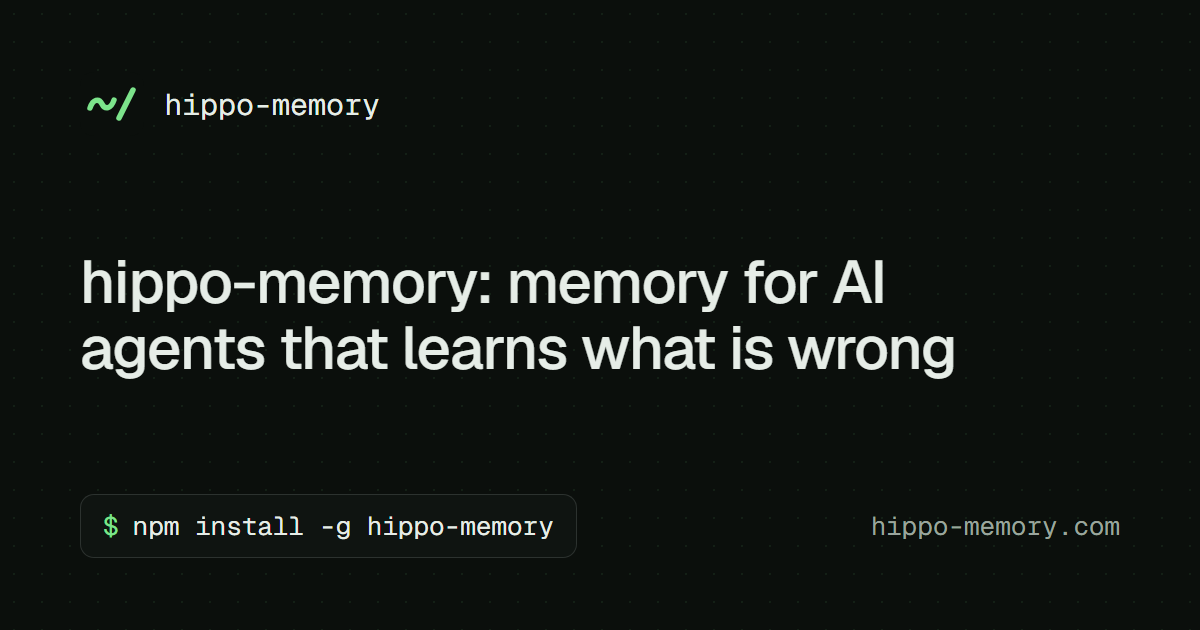
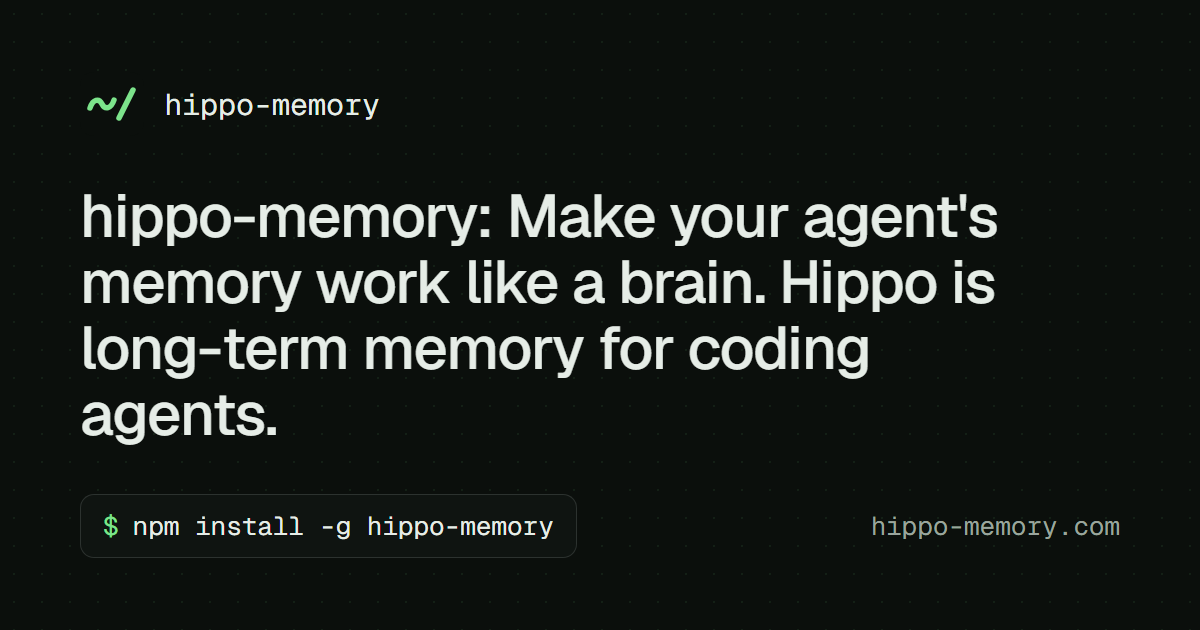
chore: release 1.63.1 with consistent Hippo tagline
Use the requested wording across README, package and plugin descriptions,
website metadata and hero, CLI help, and Python SDK documentation.
Refresh the website social preview and prepare SDK 0.3.1 metadata.

Validation: full package/UI build, website build and source-copy checks,
lint/comment/size gates, CLI help snapshots, and Python tests/build passed.

Changed region(s): [[0.0617, 0.3016, 0.8325, 0.6032], [0.0617, 0.6333, 0.2467, 0.7238]]

diff --git a/website/src/content/site.ts b/website/src/content/site.ts
@@ -19,11 +19,13 @@ export const site = {
   name: 'hippo',
   pkg: 'hippo-memory',
   version: pkg.version, // Build-source version; publication is verified separately.
-  positioning: 'memory for AI agents that learns what is wrong', // page title and hero eyebrow
-  // Hero headline, split for accent emphasis. The per-agent install detail lives in Get started.
-  tagline: { lead: 'Stop re‑teaching', accent: 'your agent.' }, // non-breaking hyphen keeps the word whole
-  description:
-    "Make your agent's memory work like a brain. Hippo is long-term memory for coding agents.",
+  positioning: pkg.description,
+  tagline: {
+    lead: "Make your agent's memory",
+    accent: 'work like a brain.',
+    summary: 'Hippo is long-term memory for coding agents.',
+  },
+  description: pkg.description,
   installCmd: 'npm install -g hippo-memory',
   initCmd: 'hippo init --scan ~',
   // A floor stays true as the suite grows; check-readme-sync.mjs holds README and llms.txt to it.

diff --git a/src/version.ts b/src/version.ts
@@ -16,7 +16,7 @@
  * an ESM `import` can resolve cleanly, and a hardcoded constant survives
  * any packager that drops .json files.
  */
-export const PACKAGE_VERSION = '1.63.0';
+export const PACKAGE_VERSION = '1.63.1';
 
 /** Compares plain x.y.z versions, positive if a > b; tags throw so the rollback guard never misfires silently. */
 export function compareSemver(a: string, b: string): number {

diff --git a/src/cli/usage.ts b/src/cli/usage.ts
@@ -26,7 +26,7 @@ export function printSlackWorkspacesUsage(): void {
 }
 
 export const USAGE_HEADER = `
-Hippo - memory for AI agents that learns what is wrong and ranks it down
+Hippo - Make your agent's memory work like a brain. Hippo is long-term memory for coding agents.
 
 Usage: hippo <command> [options]
 

diff --git a/python/src/hippo_memory/__init__.py b/python/src/hippo_memory/__init__.py
@@ -66,7 +66,7 @@ from hippo_memory.models import (
     HippoError,
 )
 
-__version__ = "0.3.0"
+__version__ = "0.3.1"
 
 __all__ = [
     "Hippo",

diff --git a/CHANGELOG.md b/CHANGELOG.md
@@ -1,5 +1,18 @@
 # Changelog
 
+## 1.63.1 - 2026-10-04
+
+### Changed
+
+- **Use one Hippo tagline across public descriptions.** The README, npm metadata, GitHub About, website, CLI help, plugin listings and Python SDK source now lead with "Make your agent's memory work like a brain. Hippo is long-term memory for coding agents."
+- **Opening a store that is already current runs one read instead of the full schema check.** Every open used to re-assert 26 tables and indexes with `CREATE ... IF NOT EXISTS`, a meta read and two row counts (`memories` and the full-text index). Now one probe checks both schema versions, every table and index the open path repairs, the 7 default meta keys and the full-text flag. When all of them hold, the open skips the DDL and the counts. Anything stale or missing takes the old repair path, which now also brings a lagging `PRAGMA user_version` up to date. On a 20,000-memory store the median open and close fell from 3.6 ms to 1.9 ms.
+- **`hippo sleep` re-syncs the full-text index, and `hippo doctor` reports when it has drifted.** Opening a store no longer checks the index against `memories`, so drift from a failed full-text write now lasts until the next sleep, not the next open. Doctor shows a new `fts` check that warns and names `hippo sleep` as the fix. A failed full-text purge now fails the archive and rolls it back, so archived text is never left searchable.
+- **A write no longer counts every memory to decide whether the store needs its legacy import.** It checks for one row instead.
+
+### Tests
+
+- **`tests/db-open-fast-path.test.ts` pins the fast path on a real store.** It checks that a current store opens with no DDL, that every `CREATE` the repair path runs names an object in the required list (and the reverse), and that stale versions, a rolled-back `schema_version`, a lagging `user_version`, a dropped continuity table or index, and a missing meta key all still take the repair path. It also checks that sleep repairs a desynced full-text index and that doctor warns on one. Five of the nine tests fail against the previous code; the other four guard behaviour that must not change. `tests/raw-archive.test.ts` adds a case where the full-text purge fails: the archive throws, and the memory row stays, with no `raw_archive` or `archive_raw` audit row written.
+
 ## 1.63.0 - 2026-10-04
 
 ### Added

diff --git a/extensions/pi-extension/README.md b/extensions/pi-extension/README.md
@@ -1,6 +1,8 @@
 # Hippo Memory - Pi Extension
 
-Biologically-inspired memory for [Pi coding agent](https://github.com/badlogic/pi-mono). Memories decay by default, retrieval strengthens them, errors stick longer, and sleep consolidation merges related episodes into one memory.
+Make your agent's memory work like a brain. Hippo is long-term memory for coding agents.
+
+This extension supports the [Pi coding agent](https://github.com/badlogic/pi-mono). Memories decay by default, retrieval strengthens them, errors stick longer, and sleep consolidation merges related episodes into one memory.
 
 ## Install
 

diff --git a/README.md b/README.md
@@ -1,6 +1,6 @@
-# 🦛 Hippo: memory for AI agents that learns what is wrong
+# 🦛 Hippo
 
-**Hippo learns what is wrong and ranks it down.** Good memory is knowing what to forget: what turned out wrong, what got replaced, what nobody used.
+**Make your agent's memory work like a brain. Hippo is long-term memory for coding agents.**
 
 [![npm](https://img.shields.io/npm/v/hippo-memory)](https://npmjs.com/package/hippo-memory)
 [![npm downloads](https://img.shields.io/npm/dm/hippo-memory)](https://npmjs.com/package/hippo-memory)

diff --git a/extensions/openclaw-plugin/README.md b/extensions/openclaw-plugin/README.md
@@ -1,6 +1,8 @@
 # Hippo Memory - OpenClaw Plugin
 
-Biologically-inspired memory for OpenClaw agents. Memories decay by default, retrieval strengthens them, errors stick longer, and sleep consolidation merges related episodes into one memory.
+Make your agent's memory work like a brain. Hippo is long-term memory for coding agents.
+
+Memories decay by default, retrieval strengthens them, errors stick longer, and sleep consolidation merges related episodes into one memory.
 
 ## Install
 

diff --git a/extensions/claude-code-plugin/README.md b/extensions/claude-code-plugin/README.md
@@ -1,6 +1,8 @@
 # Hippo Memory - Claude Code Plugin
 
-Biologically-inspired memory for Claude Code. Memories decay by default, retrieval strengthens them, errors stick longer, and sleep consolidation merges related episodes into one memory.
+Make your agent's memory work like a brain. Hippo is long-term memory for coding agents.
+
+Memories decay by default, retrieval strengthens them, errors stick longer, and sleep consolidation merges related episodes into one memory.
 
 ## Install
 

diff --git a/python/README.md b/python/README.md
@@ -1,6 +1,6 @@
 # hippo-memory-sdk (Python SDK)
 
-Async Python SDK for [hippo-memory](https://github.com/kitfunso/hippo-memory), a biologically-inspired memory system for AI agents. Decay by default, strength through use, sleep consolidation.
+Make your agent's memory work like a brain. Hippo is long-term memory for coding agents.
 
 This package is a thin async HTTP wrapper. Run `hippo serve` from the npm package alongside, then use this SDK to talk to it from Python.
 

diff --git a/integrations/cursor.md b/integrations/cursor.md
@@ -9,7 +9,7 @@ Add this to `AGENTS.md` in the project root. Cursor reads that file as an altern
 ```
 ## Memory System (Hippo)
 
-This project uses Hippo for biologically-inspired memory across sessions.
+Make your agent's memory work like a brain. Hippo is long-term memory for coding agents.
 Memories decay. Retrieval strengthens them. Errors stick longer. Sleep consolidates.
 
 ### Before each task

diff --git a/extensions/claude-code-plugin/skills/memory/SKILL.md b/extensions/claude-code-plugin/skills/memory/SKILL.md
@@ -5,7 +5,7 @@ description: Project memory powered by Hippo. Use when starting a session, after
 
 # Hippo Memory
 
-This project uses Hippo for biologically-inspired memory across sessions.
+Make your agent's memory work like a brain. Hippo is long-term memory for coding agents.
 Memories decay over time unless retrieved. Errors stick longer. Sleep consolidates.
 
 ## At session start (MANDATORY)
